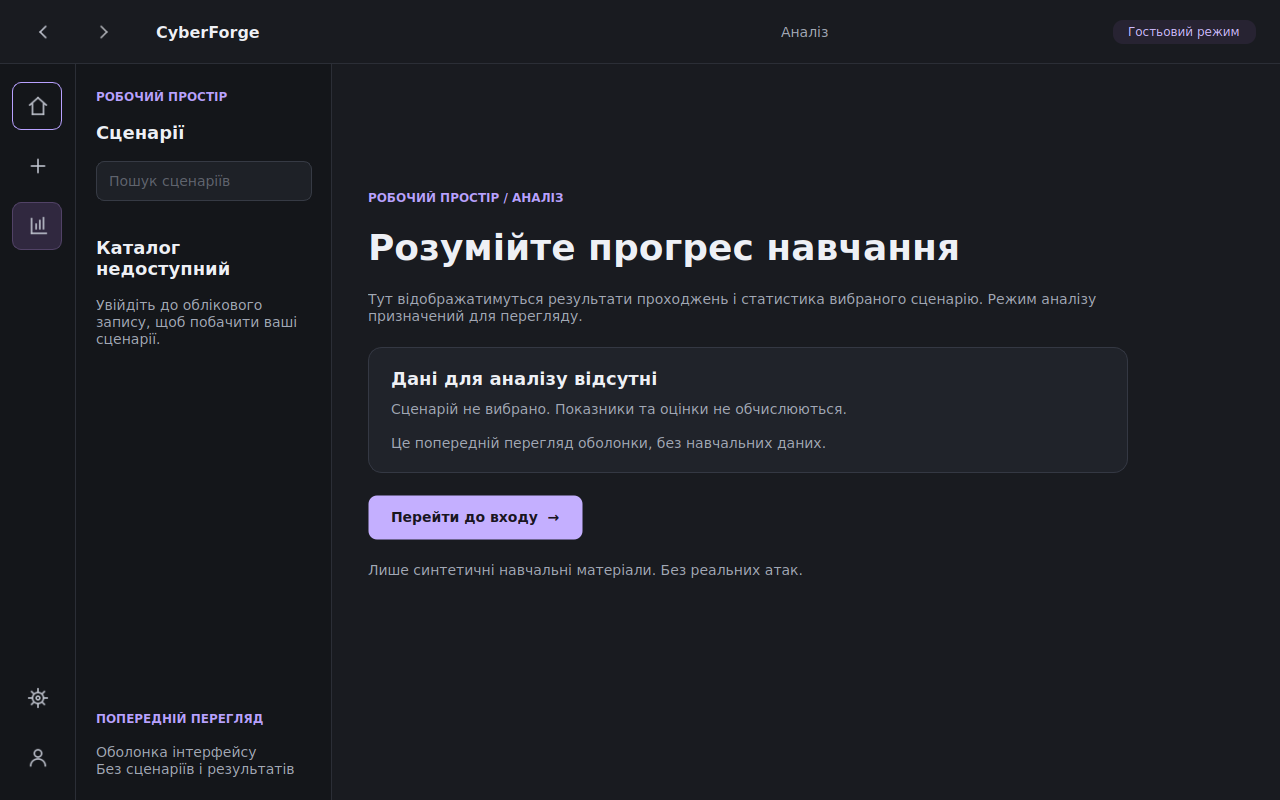
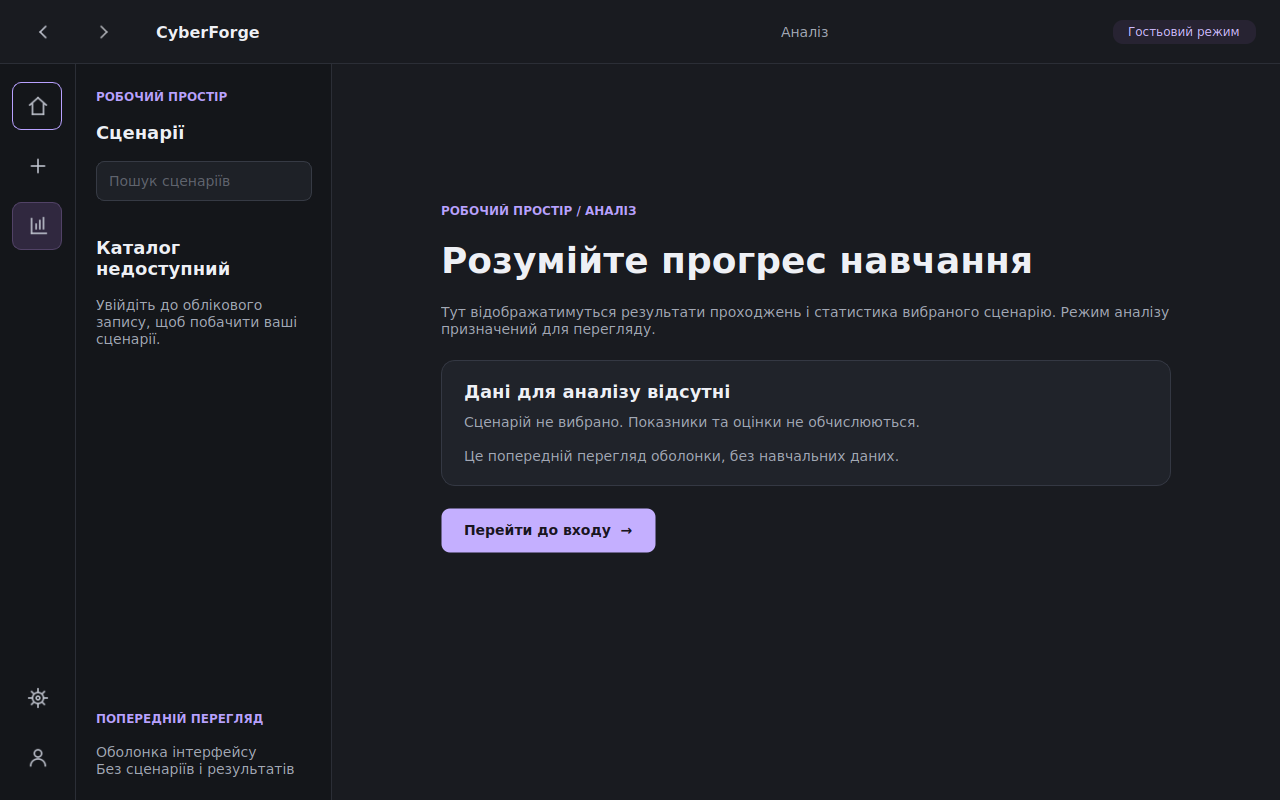
feat: refine Phase 1 Home navigation after owner review

Changed region(s): [[0.2812, 0.2188, 0.9062, 0.4375], [0.2812, 0.4688, 0.7188, 0.7188]]

diff --git a/tests/ui/test_shell.py b/tests/ui/test_shell.py
@@ -5,7 +5,7 @@ from PySide6.QtCore import Qt
 from PySide6.QtWidgets import QApplication, QLabel, QLineEdit
 from pytestqt.qtbot import QtBot
 
-from cyberforge.ui.navigation import View
+from cyberforge.ui.navigation import AuthenticationState, View
 from cyberforge.ui.shell import MainWindow
 from cyberforge.ui.theme import apply_theme
 
@@ -24,12 +24,14 @@ def click(qtbot: QtBot, window: MainWindow, view: View) -> None:
 
 
 def test_guest_start_and_profile(qtbot: QtBot, window: MainWindow) -> None:
-    assert window.navigation.current == View.GUEST
-    assert "Вітаємо" in window.pages[View.GUEST].title.text()
+    assert window.navigation.current == View.HOME
+    assert window.authentication_state == AuthenticationState.GUEST
+    assert not window.scenario_panel.isVisible()
+    assert "Вітаємо" in window.pages[View.HOME].title.text()
     assert not window.back_button.isEnabled()
     assert not window.forward_button.isEnabled()
     assert not window.new_scenario_button.isVisible()
-    qtbot.mouseClick(window.pages[View.GUEST].login_button, Qt.MouseButton.LeftButton)
+    qtbot.mouseClick(window.pages[View.HOME].login_button, Qt.MouseButton.LeftButton)
     assert window.navigation.current == View.PROFILE
     assert window.nav_buttons[View.PROFILE].isChecked()
     assert not window.pages[View.PROFILE].findChildren(QLineEdit)
@@ -43,6 +45,8 @@ def test_mode_switches_share_catalog_without_granting_access(
         click(qtbot, window, view)
         assert window.navigation.current == view
         assert window.scenario_panel is panel
+        assert panel.isVisible()
+        assert window.authentication_state == AuthenticationState.GUEST
         assert window.workspace.currentWidget() is window.containers[view]
         assert window.nav_buttons[view].isChecked()
         assert sum(b.isChecked() for b in window.nav_buttons.values()) == 1
@@ -82,6 +86,9 @@ def test_layout_does_not_clip_text(
     QApplication.processEvents()
     assert window.workspace.geometry().right() < window.width()
     assert window.pages[view].width() <= window.containers[view].viewport().width()
+    assert window.scenario_panel.isVisible() == (
+        view in (View.CONSTRUCTOR, View.ANALYTICS)
+    )
     for text in window.pages[view].findChildren(QLabel):
         assert text.height() >= text.heightForWidth(text.width()), text.text()
 
@@ -90,3 +97,46 @@ def test_keyboard_mode_switch(qtbot: QtBot, window: MainWindow) -> None:
     window.nav_buttons[View.ANALYTICS].setFocus()
     qtbot.keyClick(window.nav_buttons[View.ANALYTICS], Qt.Key.Key_Space)
     assert window.navigation.current == View.ANALYTICS
+
+
+def test_home_content_and_primary_navigation(qtbot: QtBot, window: MainWindow) -> None:
+    texts = [text.text() for text in window.pages[View.HOME].findChildren(QLabel)]
+    assert "Навчальний цикл" in texts
+    assert "Сценарій → Електронний лист → Вебсайт → Аналіз" in texts
+    assert any("Конструктор" in text and "Головну" in text for text in texts)
+    primary = [
+        window.nav_buttons[view]
+        for view in (View.HOME, View.CONSTRUCTOR, View.ANALYTICS)
+    ]
+    assert [control.y() for control in primary] == sorted(
+        control.y() for control in primary
+    )
+    assert all(control.isEnabled() and control.accessibleName() for control in primary)
+    for page in window.pages.values():
+        assert all(
+            "Лише синтетичні навчальні матеріали. Без реальних атак." not in text.text()
+            for text in page.findChildren(QLabel)
+        )
+
+
+def test_home_roundtrip_preserves_mode_history_and_guest_state(
+    qtbot: QtBot, window: MainWindow
+) -> None:
+    panel = window.scenario_panel
+    click(qtbot, window, View.CONSTRUCTOR)
+    click(qtbot, window, View.ANALYTICS)
+    window.nav_buttons[View.HOME].setFocus()
+    qtbot.keyClick(window.nav_buttons[View.HOME], Qt.Key.Key_Space)
+    assert window.navigation.current == View.HOME
+    assert window.nav_buttons[View.HOME].isChecked()
+    assert not panel.isVisible()
+    qtbot.mouseClick(window.back_button, Qt.MouseButton.LeftButton)
+    assert window.navigation.current == View.ANALYTICS
+    assert panel.isVisible()
+    assert window.scenario_panel is panel
+    qtbot.mouseClick(window.forward_button, Qt.MouseButton.LeftButton)
+    assert window.navigation.current == View.HOME
+    assert not panel.isVisible()
+    assert window.authentication_state == AuthenticationState.GUEST
+    assert not window.new_scenario_button.isEnabled()
+    assert not window.search.isEnabled()

diff --git a/src/cyberforge/ui/pages.py b/src/cyberforge/ui/pages.py
@@ -48,7 +48,7 @@ class WorkspacePage(QWidget):
         body.setSpacing(22)
         body.setContentsMargins(0, 0, 0, 0)
         eyebrow, title, description = {
-            View.GUEST: (
+            View.HOME: (
                 "НАВЧАЙТЕСЯ РОЗПІЗНАВАТИ ЗАГРОЗИ",
                 "Вітаємо в CyberForge",
                 "Безпечний простір для навчання кібергігієни. "
@@ -84,15 +84,20 @@ class WorkspacePage(QWidget):
         self.title = label(title, "title")
         body.addWidget(self.title)
         body.addWidget(label(description))
-        if view == View.GUEST:
+        if view == View.HOME:
             body.addWidget(
                 card(
                     "Навчальний цикл",
-                    "Електронний лист  →  Вебсценарій  →  Оцінювання  →  "
-                    "Зворотний зв’язок",
+                    "Сценарій → Електронний лист → Вебсайт → Аналіз",
                 )
             )
-            body.addWidget(label("Увійдіть, щоб отримати доступ до ваших сценаріїв."))
+            body.addWidget(
+                label(
+                    "«+» відкриває Конструктор, іконка графіка — Аналіз. "
+                    "Кнопка будинку повертає на Головну.\n"
+                    "Увійдіть, щоб отримати доступ до ваших сценаріїв."
+                )
+            )
         elif view == View.CONSTRUCTOR:
             body.addWidget(
                 card(
@@ -118,7 +123,7 @@ class WorkspacePage(QWidget):
                     "Доступ до сценаріїв залишається закритим.",
                 )
             )
-        if view in (View.GUEST, View.CONSTRUCTOR, View.ANALYTICS):
+        if view in (View.HOME, View.CONSTRUCTOR, View.ANALYTICS):
             self.login_button = QPushButton("Перейти до входу  →")
             self.login_button.setObjectName("primary")
             self.login_button.clicked.connect(self.profile_requested)
@@ -126,6 +131,9 @@ class WorkspacePage(QWidget):
             row.addWidget(self.login_button)
             row.addStretch()
             body.addLayout(row)
-        body.addWidget(label("Лише синтетичні навчальні матеріали. Без реальних атак."))
-        layout.addWidget(content)
+        centered = QHBoxLayout()
+        centered.addStretch(1)
+        centered.addWidget(content, 10)
+        centered.addStretch(1)
+        layout.addLayout(centered)
         layout.addStretch(2)

diff --git a/src/cyberforge/ui/shell.py b/src/cyberforge/ui/shell.py
@@ -16,7 +16,7 @@ from PySide6.QtWidgets import (
 )
 
 from cyberforge.ui.icons import icon
-from cyberforge.ui.navigation import NavigationState, View
+from cyberforge.ui.navigation import AuthenticationState, NavigationState, View
 from cyberforge.ui.pages import WorkspacePage, label
 
 
@@ -36,6 +36,7 @@ class MainWindow(QMainWindow):
         self.setWindowTitle("CyberForge")
         self.resize(1280, 800)
         self.setMinimumSize(860, 620)
+        self.authentication_state = AuthenticationState.GUEST
         self.navigation = NavigationState()
         root = QWidget()
         outer = QVBoxLayout(root)
@@ -58,7 +59,7 @@ class MainWindow(QMainWindow):
         top.addSpacing(16)
         top.addWidget(brand)
         top.addStretch()
-        self.context_label = label("Вітання")
+        self.context_label = label("Головна")
         top.addWidget(self.context_label)
         top.addSpacing(16)
         badge = label("Гостьовий режим")
@@ -79,7 +80,7 @@ class MainWindow(QMainWindow):
         self.nav_group = QButtonGroup(self)
         self.nav_buttons: dict[View, QPushButton] = {}
         entries = (
-            (View.GUEST, "home", "Головна"),
+            (View.HOME, "home", "Головна"),
             (View.CONSTRUCTOR, "plus", "Конструктор — перегляд оболонки"),
             (View.ANALYTICS, "chart", "Аналіз — перегляд оболонки"),
             (View.SETTINGS, "settings", "Налаштування"),
@@ -167,10 +168,11 @@ class MainWindow(QMainWindow):
         self.nav_buttons[current].setChecked(True)
         self.back_button.setEnabled(self.navigation.can_go_back)
         self.forward_button.setEnabled(self.navigation.can_go_forward)
+        self.scenario_panel.setVisible(current in (View.CONSTRUCTOR, View.ANALYTICS))
         self.new_scenario_button.setVisible(current == View.CONSTRUCTOR)
         self.context_label.setText(
             {
-                View.GUEST: "Вітання",
+                View.HOME: "Головна",
                 View.CONSTRUCTOR: "Конструктор",
                 View.ANALYTICS: "Аналіз",
                 View.SETTINGS: "Налаштування",

diff --git a/src/cyberforge/ui/navigation.py b/src/cyberforge/ui/navigation.py
@@ -3,8 +3,16 @@
 from enum import StrEnum
 
 
-class View(StrEnum):
+class AuthenticationState(StrEnum):
+    """Presentation state only; identity and authorization belong to Phase 2."""
+
     GUEST = "guest"
+
+
+class View(StrEnum):
+    """Destinations independent of authentication or future user roles."""
+
+    HOME = "home"
     CONSTRUCTOR = "constructor"
     ANALYTICS = "analytics"
     PROFILE = "profile"
@@ -15,7 +23,7 @@ class NavigationState:
     """Track contexts without creating scenarios or changing saved material."""
 
     def __init__(self) -> None:
-        self._history = [View.GUEST]
+        self._history = [View.HOME]
         self._index = 0
 
     @property

diff --git a/tests/test_navigation.py b/tests/test_navigation.py
@@ -7,7 +7,7 @@ def test_history_boundaries_and_duplicates() -> None:
     state = NavigationState()
     state.back()
     state.forward()
-    assert state.current == View.GUEST
+    assert state.current == View.HOME
     assert not state.can_go_back
     assert not state.can_go_forward
     state.navigate(View.CONSTRUCTOR)
@@ -16,7 +16,7 @@ def test_history_boundaries_and_duplicates() -> None:
     state.back()
     assert state.current == View.CONSTRUCTOR
     state.back()
-    assert state.current == View.GUEST
+    assert state.current == View.HOME
     state.forward()
     assert state.current == View.CONSTRUCTOR
 

diff --git a/docs/adr/0001-home-navigation.md b/docs/adr/0001-home-navigation.md
@@ -1,0 +1,60 @@
+# ADR-0001 — Головна як універсальна навігаційна сторінка
+
+**Статус:** погоджено власником під час рев’ю Phase 1, 11.11.2026.
+**Фаза:** Phase 1 — REVIEW; Phase 2 не розпочинається.
+
+## Контекст і відхилення від SRS v3.0
+
+SRS §§3.3–3.4 описує верхні перемикачі Конструктора й Аналізу, §3.11 —
+гостьове привітання. Початкова реалізація позначала сторінку привітання
+`View.GUEST`, змішуючи навігаційне призначення зі станом автентифікації.
+
+Власник явно погодив додаткову універсальну сторінку Home («Головна»)
+та три верхні іконки: будинок, «+», графік. Це затверджене уточнення UI
+відносно SRS v3.0, а не неявна зміна вимог. Файл SRS і його версія
+залишаються незмінними. Майбутні рольові відмінності з §3.9 зберігаються.
+
+## Рішення в Phase 1
+
+- `View.HOME` — окремий маршрут; початкова історія завжди починається з Home.
+  `AuthenticationState.GUEST` — незалежний стан оболонки, єдиний доступний
+  до Phase 2. Історія переходів не змінює цей стан і не надає прав.
+- Home пояснює призначення CyberForge, навчальний цикл і навігацію.
+  Це інформаційна сторінка, окрема від робочих режимів.
+- Точний текст огляду: «Сценарій → Електронний лист → Вебсайт → Аналіз».
+  Це лише UI-огляд; Email → Web → Scoring → Feedback, детермінований
+  ScoringService та правила результатів не змінюються.
+- Один каталог «Сценарії» показується у Конструкторі та Аналізі;
+  приховується на Home, у профілі й налаштуваннях. Повернення через історію
+  відновлює видимість того самого віджета.
+- Прибрано повторюване повідомлення про синтетичні матеріали з UI.
+  SRS §§16, 27 та security-правила AGENTS.md залишаються чинними:
+  лише синтетичні дані, ізоляція симуляції, заборона реального фішингу.
+- Guest бачить лише явно позначені порожні перегляди режимів. Створення,
+  пошук, захищені операції та аналітичні дані залишаються недоступними.
+  Сценарії, оцінки, ролі та fake-login не додаються.
+
+## Контракт для Phase 2 — ще не реалізовано
+
+| Стан / роль | Початкова сторінка | Верхня навігація |
+|---|---|---|
+| Guest | Home | Home, «+» і «Аналіз» як порожні перегляди оболонки |
+| Administrator | Home після входу | Home, Конструктор, Аналіз |
+| Instructor | Home після входу | Home, Конструктор, Аналіз |
+| Learner | Home після входу | Home, «Мої сценарії», «Мої результати» (§3.9) |
+
+Home доступна всім і не залежить від ролі. Phase 2 має підключити реальну
+сесію, формувати два робочі призначення відповідно до ролі та перевіряти
+права в application services; їх не можна отримати простим переходом.
+Після успішного входу слід відкривати Home й починати нову історію контекстів,
+щоб не переносити захищені контексти між сесіями. Home має показувати
+доречні сесії підказки замість пропозиції входу для авторизованих користувачів.
+Цей контракт не є реалізацією входу, ролей чи їхніх service-level дозволів.
+
+## Перевірки та наслідки
+
+Unit/GUI-тести перевіряють початкову Home, незмінний Guest-стан під час
+переходів, взаємовиключні активні стани, точний текст циклу, відсутність
+видаленого disclaimer, історію Home ↔ робочі режими, один каталог,
+клавіатуру та всі представлення у трьох розмірах вікна.
+Автентифіковані рольові шляхи перевірятимуться в Phase 2 після її погодження.

diff --git a/docs/IMPLEMENTATION_PLAN.md b/docs/IMPLEMENTATION_PLAN.md
@@ -17,7 +17,7 @@
 | Phase | Name | Status | Deliverable and acceptance focus |
 |---|---|---|---|
 | 0 | Project Foundation | ACCEPTED | Python 3.12/uv, src package, CLI, lockfile, pytest/Ruff; власник підтвердив перевірки у WSL Ubuntu та прийняв фазу 11.11.2026 |
-| 1 | Main UI Shell | REVIEW | Dark PySide6 shell, Guest view, sidebar mode controls, shared scenario panel, mode routing; UI smoke tests |
+| 1 | Main UI Shell | REVIEW | Dark PySide6 shell, universal Home / Guest state, sidebar mode controls, shared scenario panel, mode routing; UI smoke tests |
 | 2 | Users & Groups | NOT STARTED | Login, Argon2id, 3 roles, demo accounts/groups, permission enforcement; denied-access tests |
 | 3 | Scenario Management | NOT STARTED | Create/edit scenarios with unique IDs, persistence, statuses, versioned drafts; SQLite integration tests |
 | 4 | LLM Integration | NOT STARTED | LLMGateway, provider adapter, Gemini configuration, deterministic MockLLMProvider; schema and fallback tests |
@@ -115,7 +115,7 @@ The owner evaluates the working demonstration, diff, test evidence and SRS trace
   перегляд оболонки. Каталог порожній та закритий; створення й пошук
   недоступні. Авторизації, сценаріїв, тестових користувачів, оцінок,
   persistence та LLM немає; login/profile пояснює майбутній етап.
-- **Критерії:** старт у Guest; темна тема; видимі й узгоджені активні
+- **Критерії:** старт на Home у стані Guest; темна тема; видимі й узгоджені активні
   стани; «+» лише перемикає режим; кнопка нового сценарію видима тільки
   в Конструкторі та недоступна гостю; один каталог; переходи назад/вперед;
   клавіатура, прокручування й розміри 860×620–1920×1080; offline тести;
@@ -146,3 +146,31 @@ The owner evaluates the working demonstration, diff, test evidence and SRS trace
   Наступна дія — рев’ю PR/демонстрації; Phase 2 не починати без дозволу.
 - **Рев’ю:** [PR #2](https://github.com/the1llus1on/cyberforge/pull/2),
   гілка `feat/phase-1-main-ui-shell`; merge не виконано.
+
+
+### Уточнення після рев’ю власника — Home (11.11.2026)
+
+- **Статус:** Phase 1 залишається REVIEW; той самий PR #2 і feature branch.
+- **Погоджене відхилення від SRS v3.0:** універсальна Home додається до
+  Конструктора й Аналізу; джерело рішення — прямий запит власника.
+  [ADR-0001](adr/0001-home-navigation.md) містить рішення, межі та рольову
+  матрицю для Phase 2. SRS не редагується.
+- **Поведінка:** `View.HOME` відокремлено від `AuthenticationState.GUEST`;
+  Home — інформаційна сторінка без каталогу, з привітанням, підказками
+  та циклом «Сценарій → Електронний лист → Вебсайт → Аналіз».
+  Каталог існує в одному екземплярі й видимий тільки в робочих режимах.
+  Повторюваний disclaimer видалено з UI; security-вимоги залишаються чинними.
+- **Межі:** автентифікація/RBAC не реалізовані. Home не залежить від ролі;
+  контракт після входу — Home для всіх; Administrator/Instructor зберігають
+  Конструктор/Аналіз, Learner отримає «Мої сценарії»/«Мої результати» (§3.9).
+  Перемикання поточних порожніх режимів не змінює Guest і не дає доступу.
+- **Перевірки:** `uv run ruff check .`, `uv run ruff format --check .` — успіх;
+  `uv run pytest` — **25 passed** offscreen. CLI/module startup smoke — exit 0.
+  `QT_QPA_PLATFORM=wayland uv run pytest tests/ui -q` — **21 passed**;
+  Wayland startup smoke — exit 0. Візуально оглянуто Home у двох розмірах
+  і компактний Конструктор; докази наведено в журналі розробки.
+- **Знімки:** оновлено `phase-1-home.png`, `phase-1-home-compact.png`,
+  `phase-1-analytics.png`, `phase-1-compact.png`; старий guest-знімок замінено.
+- **Gate:** WSL-перевірки й рев’ю уточнення; Windows 11/DPI залишаються
+  неперевіреними. Наступна дія — рев’ю власником; merge та Phase 2 заборонені
+  без нового явного погодження.

diff --git a/README.md b/README.md
@@ -7,8 +7,12 @@
 ## Поточний стан
 
 Phase 0 — ACCEPTED. Phase 1 — Main UI Shell: REVIEW.
-Українська темна оболонка PySide6: гостьове привітання, навігація режимами,
+Українська темна оболонка PySide6: універсальна Головна, навігація режимами,
 спільна панель «Сценарії», профіль, налаштування, історія назад/вперед.
+
+Головна містить опис платформи, навчальний цикл і підказки навігації;
+каталог сценаріїв відображається у робочих режимах.
+Рішення власника зафіксовано в [ADR-0001](docs/adr/0001-home-navigation.md).
 
 Перемикачі «+» та «Аналіз» відкривають лише позначені попередні перегляди
 порожньої оболонки. Гість не має доступу до сценаріїв; створення й пошук
@@ -29,7 +33,8 @@ uv run cyberforge
 Альтернативна точка входу: `uv run python -m cyberforge`.
 `uv` створює `.venv`; перше встановлення потребує мережі.
 
-1. Перевірте привітання CyberForge та позначку «Гостьовий режим».
+1. Перевірте Головну, позначку «Гостьовий режим» і цикл
+   «Сценарій → Електронний лист → Вебсайт → Аналіз». Каталог тут прихований.
 2. Натисніть «+» у лівій панелі: відкриється Конструктор, з’явиться
    недоступна кнопка «+ Новий сценарій». Нових записів не створюється.
 3. Натисніть іконку графіка: відкриється Аналіз; кнопка створення зникне.
@@ -39,7 +44,8 @@ uv run cyberforge
    використовувати Tab і Space; довгі сторінки прокручуються.
 
 Знімки фактичного запуску у WSLg Wayland:
-[привітання](docs/screenshots/phase-1-guest.png),
+[Головна](docs/screenshots/phase-1-home.png),
+[компактна Головна](docs/screenshots/phase-1-home-compact.png),
 [аналіз](docs/screenshots/phase-1-analytics.png),
 [компактний конструктор](docs/screenshots/phase-1-compact.png).
 
